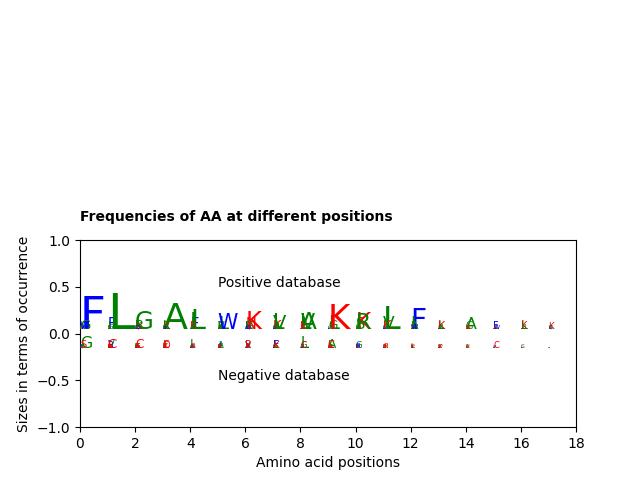
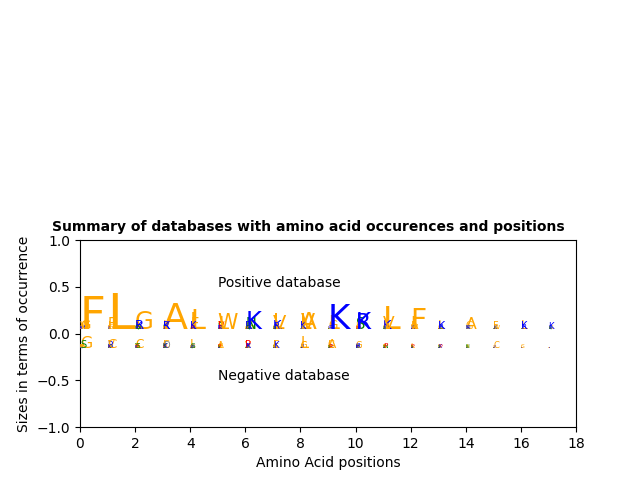
fix: restored the previously updated full list of amino acids and color code

diff --git a/database_summary.py b/database_summary.py
@@ -1,16 +1,12 @@
-from kmer_parser import parse_fasta_file
 from collections import Counter, defaultdict
-
 
 import matplotlib.pyplot as plt
 
-from Bio import SeqIO
-from Bio.SeqRecord import SeqRecord
 from kmer_parser import parse_fasta_file
 
 # Define the color properties and databases
-PROPERTIES_AA = [["D", "E", "K", "N"], ["H", "F", "Y", "W"], ["A", "V", "L", "I", "G"]]
-COLOR_AA = ["red", "blue", "green"]
+PROPERTIES_AA = [["D", "E"], ["K", "R", "H"], ["N", "Q", "S","T", "Y"], ["F", "C", "W", "A", "V", "L", "I", "G", "M"], ["P"]]
+COLOR_AA = ["grey", "blue", "green", "orange", "red"]
 
 """
 The categories of the AA are set in accordance with the used reduction dictionary, with the exception of P, which is considered as a unique AA
@@ -30,11 +26,7 @@ fig = plt.figure()
 ax = fig.add_subplot()
 fig.subplots_adjust(top=0.5)
 
-<<<<<<< HEAD
-=======
-
->>>>>>> be8c541 (refacto: change variable names and reformating)
-# Get fasta file, sort their sequinces and plot
+# Get fasta file, sort sequences and plot
 def sort_aa_positions(db_file: str):
     db_fastas = parse_fasta_file(db_file)
     print("Parsing fasta files")
